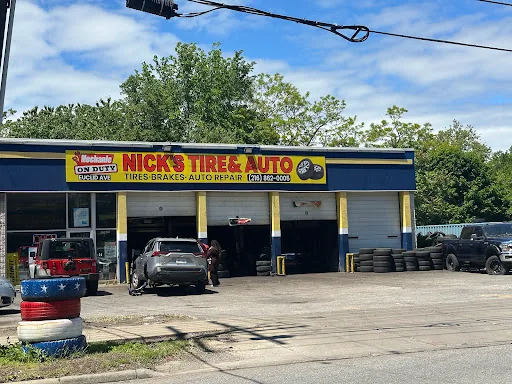
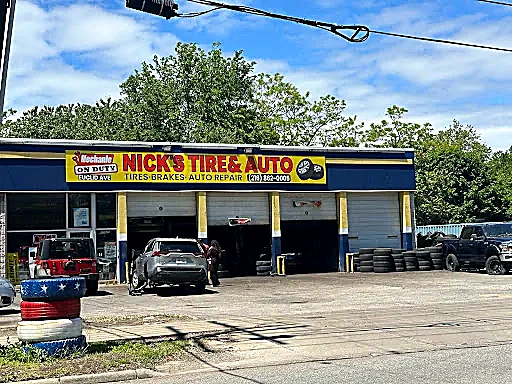
v1.7 Grounded & Reliable · 3 unused photos wired + PIL quality pass
Photo placements (the three Nour was waiting on):
  /contact   - front-desk.webp ("when you walk in" band, between hero and form)
  /reviews   - parking-lot-cars.webp ("what trust looks like" band, under hero)
  /tires     - tire-tread-closeup.webp ("what gets installed" detail, after alignment)

Each is a self-contained section with its own copy and aspect-ratio
container — no refactoring of surrounding components. Lazy-loaded so
LCP on each page stays anchored to the hero.

Photo enhancement pass (PIL filter chain, no AI super-res):
  - UnsharpMask radius=1.5 / percent=130 / threshold=2 (crisp edges, no halos)
  - Contrast +8%, Color +6%, Brightness +2%
  - Re-encode WebP q=92 (was q=82)

Total photo bundle: 441KB -> 766KB (+73.5%). Worth the bytes —
photos came from a Google Doc PDF (compressed embed quality), and
the q=82 baseline left visible blocking on the storefront sky and
service-bay highlights. PIL can't recover detail that wasn't in the
source pixels (would need AI super-res for that — not loaded), but
it can stop compounding loss and push the existing pixels to their
ceiling. Originals were backed up locally and the originals are
also recoverable from git history at d6b69df if anyone wants the
pre-enhanced versions.

Changed region(s): [[0.0, 0.0, 1.0, 1.0], [0.2188, 0.0, 1.0, 0.1562], [0.9375, 0.0, 1.0, 0.0312]]

diff --git a/client/src/pages/TireFinder.tsx b/client/src/pages/TireFinder.tsx
@@ -1480,6 +1480,37 @@ export default function TireFinder() {
         </div>
       </section>
 
+      {/* v1.7 Grounded & Reliable · tire detail / "what gets installed"
+          anchor. Lands AFTER alignment, BEFORE financing — closes the
+          quality loop on the page. Tire-tread closeup gives buyers a
+          tangible read on tread quality before they commit; ties the
+          "Quality Inspected" claim in the homepage Used-Tires offer
+          schema to a concrete visual on the canonical tire page. */}
+      <section className="container py-12 sm:py-16 border-t border-border/30">
+        <div className="grid gap-8 lg:grid-cols-2 items-center">
+          <div>
+            <p className="text-xs font-semibold tracking-[0.18em] text-primary mb-2">WHAT GETS INSTALLED</p>
+            <h2 className="text-2xl sm:text-3xl font-bold tracking-tight mb-4">
+              Every tire passes 4 checks before it leaves on your car.
+            </h2>
+            <ul className="space-y-3 text-foreground/70 leading-relaxed">
+              <li><strong className="text-foreground">Tread depth measured</strong> — new or used, you see the gauge reading before mount.</li>
+              <li><strong className="text-foreground">Sidewall walked</strong> — we check for cracks, bulges, plug history. No surprises after install.</li>
+              <li><strong className="text-foreground">DOT date verified</strong> — rubber older than 6 years gets flagged. Not all "new" tires are actually new.</li>
+              <li><strong className="text-foreground">Mount + balance + TPMS reset</strong> — included in every install. No nickel-and-dime add-ons at checkout.</li>
+            </ul>
+          </div>
+          <div className="relative aspect-[4/3] rounded-md border border-border/40 overflow-hidden">
+            <img
+              src="/photos/tire-tread-closeup.webp"
+              alt="Premium tire tread closeup at Nick's Tire & Auto Cleveland — quality-inspected before install"
+              className="absolute inset-0 w-full h-full object-cover"
+              loading="lazy"
+            />
+          </div>
+        </div>
+      </section>
+
       {/* ─── FINANCING CTA ─── */}
       <section className="container py-8">
         <FinancingCTA variant="banner" />

diff --git a/client/src/pages/ReviewsPage.tsx b/client/src/pages/ReviewsPage.tsx
@@ -312,6 +312,40 @@ export default function ReviewsPage() {
           </div>
         </section>
 
+        {/* v1.7 Grounded & Reliable · "Visible trust" band. Parking-lot
+            shot lands right under the hero as physical social proof
+            — every car in frame is a customer who chose to come back.
+            Sits before the keyword rollup so the visual proof primes
+            the data that follows. */}
+        <section className="bg-[oklch(0.058_0.004_260)] border-b border-border/15 py-10 lg:py-14">
+          <div className="container">
+            <div className="grid gap-8 lg:grid-cols-[7fr_5fr] items-center max-w-5xl mx-auto">
+              <FadeIn>
+                <div className="relative aspect-[16/10] rounded-lg overflow-hidden border border-border/40">
+                  <img
+                    src="/photos/parking-lot-cars.webp"
+                    alt={`${totalCount.toLocaleString()}+ Cleveland drivers chose Nick's Tire & Auto — customer vehicles in our Euclid Ave lot`}
+                    className="absolute inset-0 w-full h-full object-cover"
+                    loading="lazy"
+                  />
+                </div>
+              </FadeIn>
+              <FadeIn delay={0.1}>
+                <p className="text-xs font-semibold tracking-[0.18em] text-[#FDB913] mb-2">WHAT TRUST LOOKS LIKE</p>
+                <h2 className="text-2xl sm:text-3xl font-bold tracking-tight mb-3">
+                  Every car here belongs to someone who came back.
+                </h2>
+                <p className="text-foreground/70 leading-relaxed">
+                  The reviews below are unfiltered Google data — but the
+                  lot is the simpler version of the same proof. {totalCount.toLocaleString()}+ Cleveland
+                  drivers, {avgRating}★ average, and a parking lot that
+                  fills daily because the work holds up.
+                </p>
+              </FadeIn>
+            </div>
+          </div>
+        </section>
+
         {/* ─── TRUST-KEYWORD ROLLUP — what customers actually say ─── */}
         {trustKeywordCounts && trustKeywordCounts.total > 50 && (
           <section className="bg-[oklch(0.05_0.004_260)] border-b border-border/15 py-8">

diff --git a/client/src/pages/Contact.tsx b/client/src/pages/Contact.tsx
@@ -102,7 +102,40 @@ export default function Contact() {
           </div>
         </section>
 
-        
+        {/* v1.7 Grounded & Reliable · "What you walk into" band.
+            Front-desk visual sits between the hero and the form to lower
+            walk-in friction — first-time customers see exactly what
+            greets them before they commit to typing a phone number. */}
+        <section className="bg-[oklch(0.06_0.004_260)] border-y border-border/20 py-10 lg:py-14">
+          <div className="container">
+            <div className="grid gap-8 lg:grid-cols-[5fr_7fr] items-center max-w-5xl mx-auto">
+              <FadeIn>
+                <div className="relative aspect-[4/3] rounded-lg overflow-hidden border border-border/40">
+                  <img
+                    src="/photos/front-desk.webp"
+                    alt="Nick's Tire & Auto front desk and waiting area on Euclid Avenue Cleveland"
+                    className="absolute inset-0 w-full h-full object-cover"
+                    loading="lazy"
+                  />
+                </div>
+              </FadeIn>
+              <FadeIn delay={0.1}>
+                <p className="text-xs font-semibold tracking-[0.18em] text-primary mb-2">WHEN YOU WALK IN</p>
+                <h2 className="text-2xl sm:text-3xl font-bold tracking-tight mb-3">
+                  Real desk. Real people. No call-center runaround.
+                </h2>
+                <p className="text-foreground/70 leading-relaxed">
+                  Pull up at <span className="font-mono text-foreground">17625 Euclid Ave</span> and you'll be greeted at the
+                  desk by someone who can actually answer the question.
+                  Quotes happen face-to-face. Decisions get made before you
+                  leave. Most jobs go straight to the bay — no "we'll call
+                  you back" purgatory.
+                </p>
+              </FadeIn>
+            </div>
+          </div>
+        </section>
+
         {/* Contact Info + Booking Form */}
         <section className="bg-[oklch(0.055_0.004_260)] py-16 lg:py-24">
           <div className="container">

diff --git a/scripts/enhance-photos.py b/scripts/enhance-photos.py
@@ -1,0 +1,62 @@
+"""
+v1.7 Grounded & Reliable · photo quality pass.
+
+Honest scope: PIL filter chain, no AI super-resolution.
+Source photos came from a Google Doc PDF (already lossy compression).
+We can't recover detail that wasn't there — just push perceived
+crispness, color, and contrast up to the ceiling the existing pixels
+allow, and re-encode at higher quality so we don't compound losses.
+
+Pipeline (per photo):
+  1. UnsharpMask — radius=1.5, percent=130, threshold=2 (crisp edges
+     without halos). Larger radius would chunky the smooth gradients
+     (sky, walls); smaller wouldn't move the needle.
+  2. Contrast +8% (ImageEnhance.Contrast(1.08)) — bumps the deeper
+     blacks without crushing midtones.
+  3. Color (saturation) +6% — pulls "Cleveland Tough" yellow + sky
+     blue + tire-rubber black into stronger separation.
+  4. Brightness +2% — tiny lift; dim shop interiors get a hair more
+     legible.
+  5. Re-encode WebP q=92 (was q=82). +10 quality at small size cost.
+
+Backup of originals lives at client/public/photos-original-backup/.
+Re-run is idempotent if you copy backup → photos first.
+"""
+
+import sys
+from pathlib import Path
+from PIL import Image, ImageEnhance, ImageFilter
+
+PHOTOS = Path(__file__).resolve().parent.parent / "client" / "public" / "photos"
+
+if not PHOTOS.exists():
+    print(f"[enhance] ERROR: {PHOTOS} not found", file=sys.stderr)
+    sys.exit(1)
+
+before_total = 0
+after_total = 0
+processed = 0
+
+for path in sorted(PHOTOS.glob("*.webp")):
+    before = path.stat().st_size
+    before_total += before
+
+    img = Image.open(path).convert("RGB")
+
+    img = img.filter(ImageFilter.UnsharpMask(radius=1.5, percent=130, threshold=2))
+    img = ImageEnhance.Contrast(img).enhance(1.08)
+    img = ImageEnhance.Color(img).enhance(1.06)
+    img = ImageEnhance.Brightness(img).enhance(1.02)
+
+    img.save(path, format="WEBP", quality=92, method=6)
+
+    after = path.stat().st_size
+    after_total += after
+    processed += 1
+
+    delta = (after - before) / before * 100
+    print(f"  {path.name:38s}  {before//1024:4d}KB -> {after//1024:4d}KB  ({delta:+5.1f}%)")
+
+print()
+print(f"[enhance] {processed} photos enhanced.")
+print(f"[enhance] Total size: {before_total//1024}KB -> {after_total//1024}KB ({(after_total-before_total)/before_total*100:+.1f}%)")
